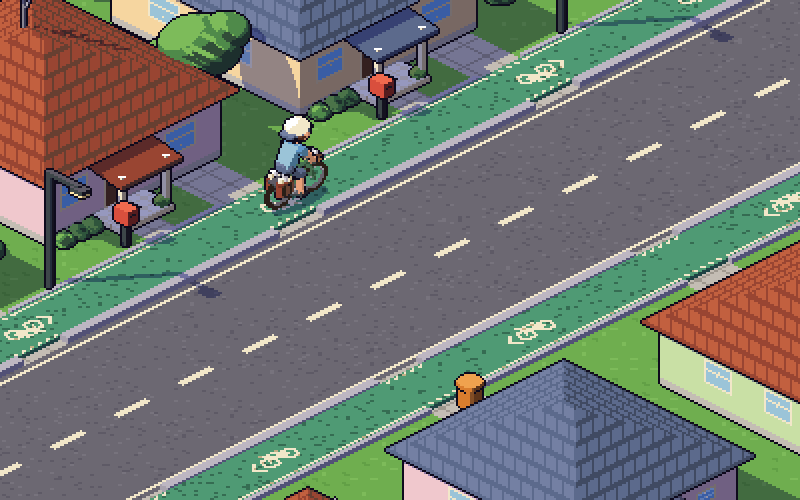
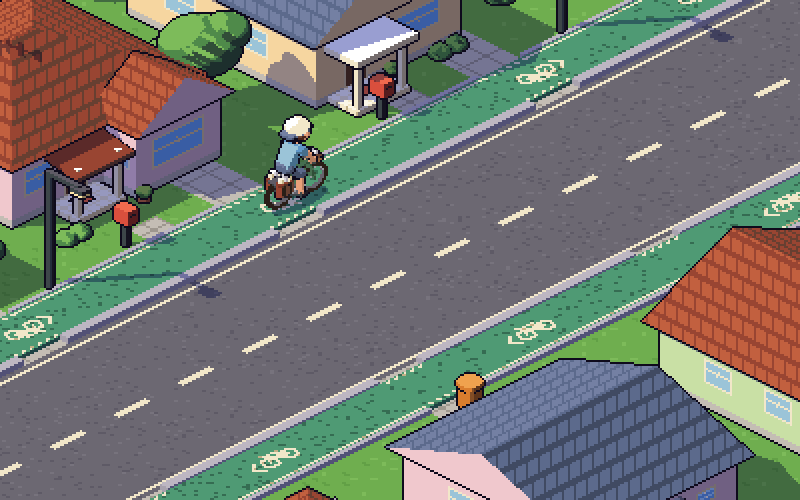
art: tiga bentuk rumah perumahan, bus kecil, angkot tanpa rak atap
- perumahan: rumah sisi seberang diselang-seling limasan, pelana (segitiga
  menghadap jalan, teras dak), dan sayap (ruang depan menonjol); rumah sisi
  dekat bergantian atap limas dan pelana
- lib: model bus kecil kota dua warna dengan papan trayek; rak atap angkot
  dihapus
- ruko: bus kecil di lajur seberang
- Semua mock di docs/design/environment dirender ulang; ART_DIRECTION 2.6
  dan README tools/env_art diperbarui

Claude-Session: https://claude.ai/code/session_01Mx68M7WiMZo9CMYpFx89Kx

diff --git a/tools/env_art/perumahan.py b/tools/env_art/perumahan.py
@@ -140,39 +140,92 @@ def kerb_with_gaps(s, a, b, z1, mat, gaps):
             s.add(box(a, b, y0, y1, 0, z1, mat, outline=False, cast=False))
 
 
-def house_far(s, yc, wall, roof, seed=0, carport_car=False):
+def _teras(s, x1, ya, yb, R, seed, kind='shed', h=27):
+    """Teras di depan pintu: lantai keramik, keset, dua tiang, atap kecil, lampu."""
+    s.add(box(x1, x1 + 15, ya, yb, 0, 2.5, P['paper'],
+              lambda Pw, Nw: (0, np.where((np.mod(Pw[:, 0], 5) < 0.8) | (np.mod(Pw[:, 1], 5) < 0.8), 1, 0)),
+              outline=True, cast=False))
+    yc = (ya + yb) / 2
+    s.add(box(x1 + 3, x1 + 9, yc - 3, yc + 5, 2.5, 3.2, P['red'], outline=False, cast=False))  # keset
+    for py in (ya + 1, yb - 3):
+        s.add(box(x1 + 12, x1 + 14, py, py + 2, 2.5, h, P['white']))
+    if kind == 'shed':
+        s.add(shed(x1 - 2, x1 + 17, ya - 2, yb + 2, h + 3, h - 1, '+x', 2, mats=R, tex=roof_tex('flat')))
+    else:   # dak beton datar dengan lis
+        s.add(box(x1 - 1, x1 + 17, ya - 2, yb + 2, h, h + 3, P['white']))
+    s.add(box(x1 + 0.5, x1 + 2.5, yc - 1, yc + 1, h - 5, h - 3, P['lamp']))
+    s.lights.append(Light((x1 + 6, yc, 16), 46, '#FFC870', 0.85, flat=0.5))
+
+
+HOUSE_TYPES = ('limasan', 'pelana', 'sayap')
+
+
+def house_far(s, yc, wall, roof, seed=0, carport_car=False, kind='limasan'):
+    """Rumah sisi seberang (fasad terlihat). Tiga bentuk:
+    limasan: badan lebar, atap limas, teras di tengah.
+    pelana: atap pelana dengan segitiga menghadap jalan, teras samping beratap dak.
+    sayap: badan utama mundur, satu ruang depan menonjol beratap pelana kecil, teras di ceruk."""
     W, R = P[wall], P[roof]
     x0, x1 = FX0, FX1
     y0, y1 = yc - 44, yc + 44
-    feats = [
-        dict(face='+x', u=(yc + 2, yc + 14), v=(2, 25), mat=1, frame=2, kind='door', handle=4),
-        dict(face='+x', u=(yc - 32, yc - 16), v=(12, 25), mat=3, frame=2),
-        dict(face='+x', u=(yc + 22, yc + 36), v=(12, 25), mat=3, frame=2),
-        dict(face='+y', u=(x0 + 18, x0 + 34), v=(12, 25), mat=3, frame=2),
-        dict(face='+y', u=(x0 + 54, x0 + 70), v=(12, 25), mat=3, frame=2),
-    ]
     mats = [W, P['wood'], P['white'], P['glass'], P['metal_dk'], P['conc']]
-    s.add(box(x0, x1, y0, y1, 0, 34, mats, wall_tex(feats, plinth=(3.5, 5))))
-    s.add(hip(x0 - 5, x1 + 5, y0 - 5, y1 + 5, 33, 58, mats=[R, W], tex=roof_tex('genteng', seed, wall=True)))
-    # teras: lantai, tiang, atap kecil
-    s.add(box(x1, x1 + 15, yc - 6, yc + 20, 0, 2.5, P['paper'],
-              lambda Pw, Nw: (0, np.where((np.mod(Pw[:, 0], 5) < 0.8) | (np.mod(Pw[:, 1], 5) < 0.8), 1, 0)),
-              outline=True, cast=False))
-    s.add(box(x1 + 3, x1 + 9, yc + 4, yc + 12, 2.5, 3.2, P['red'], outline=False, cast=False))  # keset
-    for py in (yc - 5, yc + 17):
-        s.add(box(x1 + 12, x1 + 14, py, py + 2, 2.5, 27, P['white']))
-    s.add(shed(x1 - 2, x1 + 17, yc - 8, yc + 22, 30, 26, '+x', 2, mats=R, tex=roof_tex('flat')))
-    s.add(box(x1 + 0.5, x1 + 2.5, yc - 1, yc + 1, 22, 24, P['lamp']))
-    s.lights.append(Light((x1 + 6, yc + 7, 16), 46, '#FFC870', 0.85, flat=0.5))
-    for i, py in enumerate((yc + 24, yc + 31, yc + 38)):
+    rt = roof_tex('genteng', seed, wall=True)
+    if kind == 'limasan':
+        feats = [
+            dict(face='+x', u=(yc + 2, yc + 14), v=(2, 25), mat=1, frame=2, kind='door', handle=4),
+            dict(face='+x', u=(yc - 32, yc - 16), v=(12, 25), mat=3, frame=2),
+            dict(face='+x', u=(yc + 22, yc + 36), v=(12, 25), mat=3, frame=2),
+            dict(face='+y', u=(x0 + 18, x0 + 34), v=(12, 25), mat=3, frame=2),
+            dict(face='+y', u=(x0 + 54, x0 + 70), v=(12, 25), mat=3, frame=2)]
+        s.add(box(x0, x1, y0, y1, 0, 34, mats, wall_tex(feats, plinth=(3.5, 5))))
+        s.add(hip(x0 - 5, x1 + 5, y0 - 5, y1 + 5, 33, 58, mats=[R, W], tex=rt))
+        _teras(s, x1, yc - 6, yc + 20, R, seed)
+        bush_ys = (yc + 24, yc + 31, yc + 38)
+        ant = (x0 + 34, yc + 14 - (seed % 2) * 20, 34, 72)
+    elif kind == 'pelana':
+        y0, y1 = yc - 36, yc + 36
+        feats = [
+            dict(face='+x', u=(yc + 10, yc + 22), v=(2, 25), mat=1, frame=2, kind='door', handle=4),
+            dict(face='+x', u=(yc - 26, yc - 4), v=(12, 25), mat=3, frame=2),
+            dict(face='+x', u=(yc - 4, yc + 4), v=(42, 48), mat=4, frame=2, kind='nako'),   # lubang angin di segitiga
+            dict(face='+y', u=(x0 + 18, x0 + 34), v=(12, 25), mat=3, frame=2),
+            dict(face='+y', u=(x0 + 54, x0 + 70), v=(12, 25), mat=3, frame=2)]
+        tex = wall_tex(feats, plinth=(3.5, 5))
+        s.add(box(x0, x1, y0, y1, 0, 34, mats, tex))
+        # atap pelana, bubungan tegak lurus jalan; dinding segitiga ikut warna dinding
+        s.add(gable(x0 - 4, x1 + 4, y0 - 5, y1 + 5, 34, 62, 'x', mats=[R, W], tex=rt))
+        s.add(gable(x0, x1, y0, y1, 34, 59, 'x', mats=mats, tex=tex, part=s.prims[-1].part))
+        _teras(s, x1, yc + 4, yc + 30, R, seed, kind='dak', h=26)
+        bush_ys = (yc - 30, yc - 22)
+        ant = (x0 + 30, yc - 12, 50, 80)
+    else:  # sayap
+        xb = x1 - 16                       # badan utama mundur
+        feats = [
+            dict(face='+x', u=(yc + 6, yc + 18), v=(2, 25), mat=1, frame=2, kind='door', handle=4),
+            dict(face='+x', u=(yc + 24, yc + 38), v=(12, 25), mat=3, frame=2),
+            dict(face='+y', u=(x0 + 18, x0 + 34), v=(12, 25), mat=3, frame=2),
+            dict(face='+y', u=(x0 + 54, x0 + 70), v=(12, 25), mat=3, frame=2)]
+        s.add(box(x0, xb, y0, y1, 0, 34, mats, wall_tex(feats, plinth=(3.5, 5))))
+        s.add(hip(x0 - 5, xb + 5, y0 - 5, y1 + 5, 33, 56, mats=[R, W], tex=rt))
+        # ruang depan menonjol di sisi kiri, segitiga atap menghadap jalan
+        wy0, wy1 = y0, yc - 2
+        wf = [dict(face='+x', u=(wy0 + 8, wy1 - 8), v=(10, 25), mat=3, frame=2, kind='window'),
+              dict(face='+y', u=(xb + 2, x1 - 3), v=(12, 24), mat=3, frame=2)]
+        wt = wall_tex(wf, plinth=(3.5, 5))
+        s.add(box(xb - 2, x1, wy0, wy1, 0, 33, mats, wt))
+        s.add(gable(xb - 6, x1 + 4, wy0 - 3, wy1 + 3, 33, 52, 'x', mats=[R, W], tex=rt))
+        s.add(gable(xb - 2, x1, wy0, wy1, 33, 50, 'x', mats=mats, tex=wt, part=s.prims[-1].part))
+        _teras(s, xb, yc + 2, yc + 26, R, seed, h=26)
+        bush_ys = (yc + 30, yc + 37)
+        ant = (x0 + 30, yc + 20, 34, 70)
+    for i, py in enumerate(bush_ys):
         bush(s, x1 + 4, py, 4.2, seed=seed * 7 + i)
-    pot_plant(s, x1 + 12, yc - 3, 2.6, seed=seed)
-    # kotak surat tepat di tepi luar lajur sepeda
+    pot_plant(s, x1 + 3, yc - 3 if kind != 'pelana' else yc + 1, 2.6, seed=seed)
     kotak_surat(s, -EDGE[1] - 5, yc + 24)
     if carport_car:
         car(s, x1 + 26, yc - 29, body=Mat('#9CC4E4', '#6C9CC8', '#46688E'), length=50, width=22)
     if seed % 3 != 1:
-        antena(s, x0 + 34, yc + 14 - (seed % 2) * 20, 34, 72, seed=seed)
+        antena(s, *ant, seed=seed)
 
 
 def house_near(s, yc, wall, roof, seed=0):
@@ -188,7 +241,16 @@ def house_near(s, yc, wall, roof, seed=0):
     ]
     mats = [W, P['wood'], P['white'], P['glass'], P['metal_dk'], P['conc']]
     s.add(box(x0, x1, y0, y1, 0, 32, mats, wall_tex(feats, plinth=(3.5, 5))))
-    s.add(hip(x0 - 5, x1 + 5, y0 - 5, y1 + 5, 31, 54, mats=[R, W], tex=roof_tex('genteng', seed + 9, wall=True)))
+    rt = roof_tex('genteng', seed + 9, wall=True)
+    k = seed % 3
+    if k == 0:
+        s.add(hip(x0 - 5, x1 + 5, y0 - 5, y1 + 5, 31, 54, mats=[R, W], tex=rt))
+    elif k == 1:
+        s.add(gable(x0 - 4, x1 + 4, y0 - 5, y1 + 5, 32, 56, 'x', mats=[R, W], tex=rt))
+        s.add(gable(x0, x1, y0, y1, 32, 53, 'x', mats=W, part=s.prims[-1].part))
+    else:
+        s.add(gable(x0 - 5, x1 + 5, y0 - 4, y1 + 4, 32, 52, 'y', mats=[R, W], tex=rt))
+        s.add(gable(x0, x1, y0, y1, 32, 50, 'y', mats=W, part=s.prims[-1].part))
     s.add(shed(x1, x1 + 12, yc - 12, yc + 10, 25, 22, '+x', 1.5, mats=P['metal'], tex=roof_tex('seng')))
     if seed % 2 == 0:
         antena(s, x0 + 50, yc - 8, 32, 68, seed=seed + 20)
@@ -209,7 +271,7 @@ def build(s, car_on=True):
         a, b = (EDGE if sg > 0 else (-EDGE[1], -EDGE[0]))
         kerb_with_gaps(s, a, b, 2.6, P['kerb'], gaps)
     for i, yc in enumerate(FAR_YC):
-        house_far(s, yc, WALLS[i], ROOFS[i], seed=i, carport_car=(i == 3))
+        house_far(s, yc, WALLS[i], ROOFS[i], seed=i, carport_car=(i == 3), kind=HOUSE_TYPES[i % 3])
         if i % 2 == 0:
             tree_round(s, FX1 - 28, yc + 66, r=15, h=24, seed=i)
         else:

diff --git a/tools/env_art/lib.py b/tools/env_art/lib.py
@@ -350,11 +350,61 @@ def angkot(s, x, y, body=None, length=44, width=22, front=None, stripe=None):
         return mi, sh
     s.add(_conv(planes, (x - hw, y - hl, zb), (x + hw, y + hl, zt),
                 [body, LAMP_F, LAMP_R, TRIM, RIM, stripe, GLASS_CAR, Mat('#4A4450', '#3A3440', '#26222C')], tex))
-    pid = s.prims[-1].part
-    # rak atap
-    for sx in (-1, 1):
-        s.add(box(x + sx * (hw - 3) - 0.6, x + sx * (hw - 3) + 0.6, y - hl * 0.7, y + hl * 0.5, zt, zt + 2.2, TRIM, part=pid))
     _wheels(s, x, hw - 0.2, wys, r=4.4)
+
+
+def bus_kecil(s, x, y, body=None, upper=None, length=74, width=24, front=None):
+    """Bus kecil kota (sedang): bodi kotak tinggi dengan sudut tumpul, kaca depan hampir tegak,
+    papan trayek di atas kaca, deret jendela panjang, dua warna, pintu terbuka di depan sisi trotoar."""
+    body = body or Mat('#FF9A6A', '#E8683E', '#A44428')
+    upper = upper or Mat('#FBF6E8', '#F2E7C9', '#C2AF86')
+    f = front if front is not None else (1 if x > 0 else -1)
+    hl, hw = length / 2, width / 2
+    zb, zt = 3.0, 31.0
+    Y = np.array([0, f, 0.0])
+    kw = 0.12
+    planes = [((1, 0, 0), x + hw), ((-1, 0, 0), -(x - hw)), ((0, 0, 1), zt), ((0, 0, -1), -zb),
+              (Y, f * y + hl), (-Y, -f * y + hl),
+              (np.array([0, f, kw]), f * y + hl + kw * 13),             # kaca depan sedikit miring
+              (np.array([0, f, 1.0]), f * y + hl + zt - 2.5),            # sudut atap depan
+              (np.array([0, -f, 1.0]), -f * y + hl + zt - 2.0),
+              ((1, 0, 1), x + hw + zt - 1.5), ((-1, 0, 1), -(x - hw) + zt - 1.5)]
+    for sx in (-1, 1):
+        for sy in (-1, 1):
+            planes.append((np.array([sx, sy * f, 0.0]), sx * x + sy * f * y + hw + hl - 2.5))
+    wys = (y + f * hl * 0.6, y - f * hl * 0.55)
+    base = _body_tex(x, y, f, hw, hl, wys, stripe=(12.5, 14.0), arch=6.2)
+
+    def tex(Pw, Nw):
+        mi, sh = base(Pw, Nw)
+        pz = Pw[:, 2]
+        u = f * (Pw[:, 1] - y)
+        lat = Pw[:, 0] - x
+        side = np.abs(Nw[:, 0]) > 0.7
+        frontf = (Nw @ np.array([0, f, 0.0])) > 0.5
+        upperz = (pz > 14) & (mi == 0)
+        mi = np.where(upperz, 8, mi)
+        win = side & (pz > 16) & (pz < 26) & (u < hl - 3) & (u > -hl + 4)
+        pillar = np.mod(u + hl, 11.0) < 1.5
+        mi = np.where(win & ~pillar, 6, mi)
+        door = side & (lat * f < 0) & (u > hl - 15) & (u < hl - 5) & (pz > 4) & (pz < 27)
+        mi = np.where(door, 7, mi)
+        ws = frontf & (pz > 14) & (pz < 26) & (np.abs(lat) < hw - 1.5)
+        mi = np.where(ws, 6, mi)
+        sign = frontf & (pz >= 26.5) & (pz < 29.5) & (np.abs(lat) < hw - 3)
+        mi = np.where(sign, 9, mi)
+        mi = np.where(sign & text_band(lat * f, pz), 8, mi)
+        return mi, sh
+    s.add(_conv(planes, (x - hw, y - hl, zb), (x + hw, y + hl, zt),
+                [body, LAMP_F, LAMP_R, TRIM, RIM, body, GLASS_CAR, Mat('#4A4450', '#3A3440', '#26222C'), upper,
+                 Mat('#3A3440', '#2C2632', '#1C1822')], tex))
+    _wheels(s, x, hw - 0.2, wys, r=4.8)
+
+
+def text_band(u, z):
+    """Huruf trayek kecil (pola blok) untuk papan bus."""
+    return (np.mod(np.floor(u / 1.0), 4) != 3) & (np.mod(np.floor(u / 4.0), 3) != 2) & (np.abs(z - 28) < 0.9) & \
+           (hash2(np.floor(u), np.floor(z), 5) > 0.35)
 
 
 def motor(s, x, y, body=None, along='y'):

diff --git a/tools/env_art/districts.py b/tools/env_art/districts.py
@@ -129,6 +129,7 @@ def build_ruko(s):
         motor(s, -(RR + 8) if i % 2 else RR + 8, my, body=[P['red'], P['blue'], P['metal_dk'], RK['s_yel']][i % 4])
     # angkot di lajur dekat
     angkot(s, 30, -40, body=RK['angkot'], front=1)
+    bus_kecil(s, -26, 70, front=-1)
     # gerobak kaki lima di trotoar seberang
     gx0 = -RR - 14
     s.add(box(gx0, gx0 + 10, 70, 90, 6, 18, [P['white'], RK['s_red']], wall_tex([dict(face='+x', u=(70, 90), v=(14, 16), mat=1)])))

diff --git a/docs/ART_DIRECTION.md b/docs/ART_DIRECTION.md
@@ -141,6 +141,10 @@ Gaya piksel sama, palet berbeda, supaya pemain langsung tahu sedang di mana (GDD
 
 Jalan yang lebih lebar membuat lemparan ke sisi dekat butuh swipe panjang; perlu diuji di prototype 2.
 
+**Variasi rumah perumahan** (bentuk, bukan cuma warna), diselang-seling di sisi seberang: *limasan* (badan lebar, atap limas, teras di tengah), *pelana* (segitiga atap menghadap jalan dengan lubang angin, teras samping beratap dak), *sayap* (badan utama mundur, ruang depan menonjol beratap pelana kecil, teras di ceruk). Rumah sisi dekat bergantian atap limas, pelana melintang, dan pelana memanjang. Warna dinding dan atap tetap lewat palette swap.
+
+**Kendaraan:** sedan, angkot (minibus tanpa rak atap), dan bus kecil kota dua warna dengan papan trayek; semuanya punya kaca miring, sudut bodi tumpul, lekuk roda, pelek, dan lampu.
+
 **Palet distrik** tambahan dari palet induk ada di papan "Palet per distrik" (ramp terang · dasar · gelap), dengan color grading ringan per distrik (contoh: perkampungan R ×1,04 B ×0,94, sungai R ×0,97 B ×1,04).
 
 **Detail hidup di pinggir jalan:** jemuran bergoyang (kaus, celana, handuk, sarung; 8 frame), ayam jalan dan mematuk (8 frame, tiga warna lewat palette swap), asap warung (12 frame, tanpa garis luar karena VFX), kucing di tembok, layangan di kabel, **antena TV di atap** rumah dan ruko, pohon kelapa, klotok di sungai. Gerakannya pelan dan kontrasnya di bawah objek gameplay.
@@ -463,7 +467,7 @@ Jumlah aset adalah penyebab paling umum game solo mangkrak. Penawarnya sudah dib
 
 ## Changelog Keputusan
 
-- **2026-10-07** — **Usulan lingkungan** (bagian 2.6): bayangan berwarna per waktu, pemain setengah color grading, penampang jalan per distrik (lajur sepeda di perumahan, ruko 2 lajur, gang 2 ubin, talud sungai miring), palet enam distrik, detail pinggir jalan dan antena TV. Mock di `design/environment/`, renderer `tools/env_art`. Belum dikunci.
+- **2026-10-07** — **Usulan lingkungan** (bagian 2.6): bayangan berwarna per waktu, pemain setengah color grading, penampang jalan per distrik (lajur sepeda di perumahan, ruko 2 lajur, gang 2 ubin, talud sungai miring), palet enam distrik, detail pinggir jalan dan antena TV, tiga bentuk rumah perumahan, model sedan/angkot/bus kecil. Mock di `design/environment/`, renderer `tools/env_art`. Belum dikunci.
 
 - **2026-10-07** — **Sprite produksi Kemeja Agen** (bagian 3.2): 15 animasi kayuh (3 kecepatan × 5 arah, 4 frame maju), sel 46×58, titik pijak (23, 46), SpriteFrames dicek memuat di Godot 4.3. Saat ngebut hanya sepeda yang bergoyang ±5°; badan pengendara stabil supaya kepala tidak bergetar di 12 fps.
 - **2026-10-07** — **Audit sprite sebelum produksi**: roda depan tidak lagi terpotong saat setang belok (seluruh rakitan depan berputar bersama), condong dan setang saat belok dikecilkan, wajah dari depan memakai dua mata dan mulut, topi diberi pita dan pet dongker supaya terbaca terbalik, bahu dilebarkan supaya lengan terlihat dari belakang, rangka sepeda dua nada dan lebih tipis, pose ngebut dibuat lebih tegak dengan sadel terlihat.

diff --git a/tools/env_art/README.md b/tools/env_art/README.md
@@ -29,8 +29,8 @@ Hasil masuk ke `build/env_art/` (tidak di-commit, bisa diganti lewat `ENV_ART_OU
 | File | Isi |
 |---|---|
 | `engine.py` | Primitif, ray cast, nada, bayangan, lampu, glow, garis luar, penempelan sprite, `TIMES` |
-| `lib.py` | Palet induk + tambahan, tekstur dinding/atap/tanah, pohon, semak, kotak surat, lampu jalan, mobil, angkot, motor, ayam, jemuran, kabel, asap, antena TV |
-| `perumahan.py` | Jalan perumahan: aspal 3 ubin, lajur sepeda di kedua sisi, rumah dua sisi |
+| `lib.py` | Palet induk + tambahan, tekstur dinding/atap/tanah, pohon, semak, kotak surat, lampu jalan, sedan, angkot, bus kecil, motor, ayam, jemuran, kabel, asap, antena TV |
+| `perumahan.py` | Jalan perumahan: aspal 3 ubin, lajur sepeda di kedua sisi, tiga bentuk rumah (`HOUSE_TYPES`: limasan, pelana, sayap) |
 | `kampung.py` | Gang perkampungan 2 ubin: rumah rapat, warung, jemuran melintang, halaman, tiang listrik |
 | `districts.py` | Ruko, pasar, desa, pinggir sungai, dan vinyet enam distrik |
 | `details.py` | Loop detail pinggir jalan |
